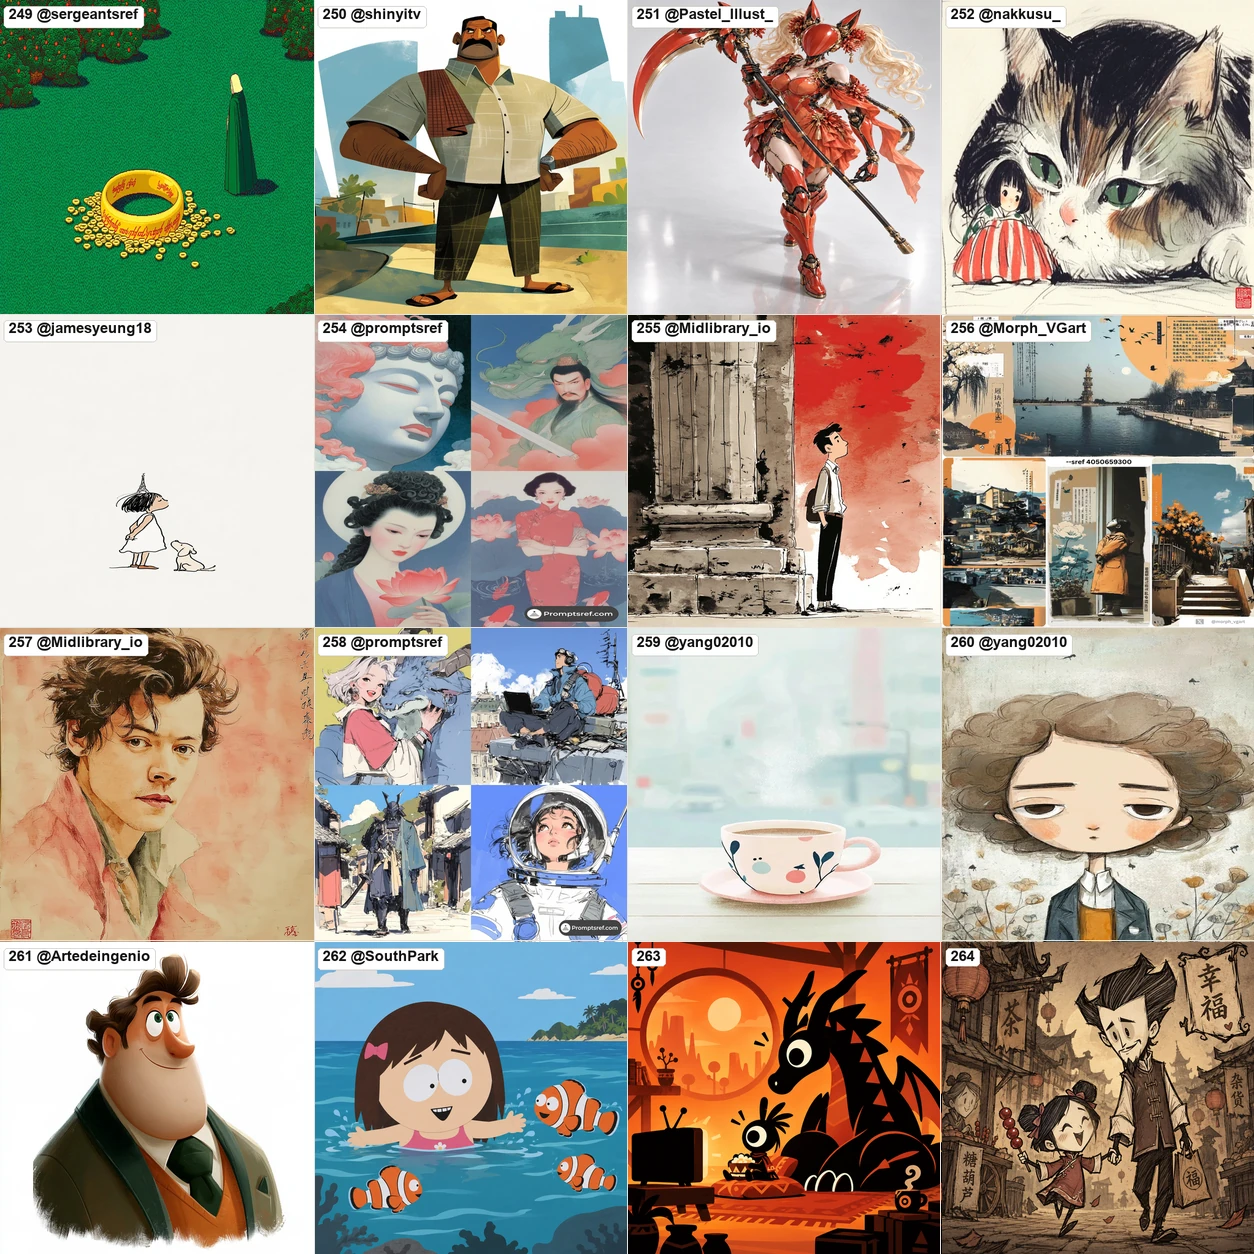
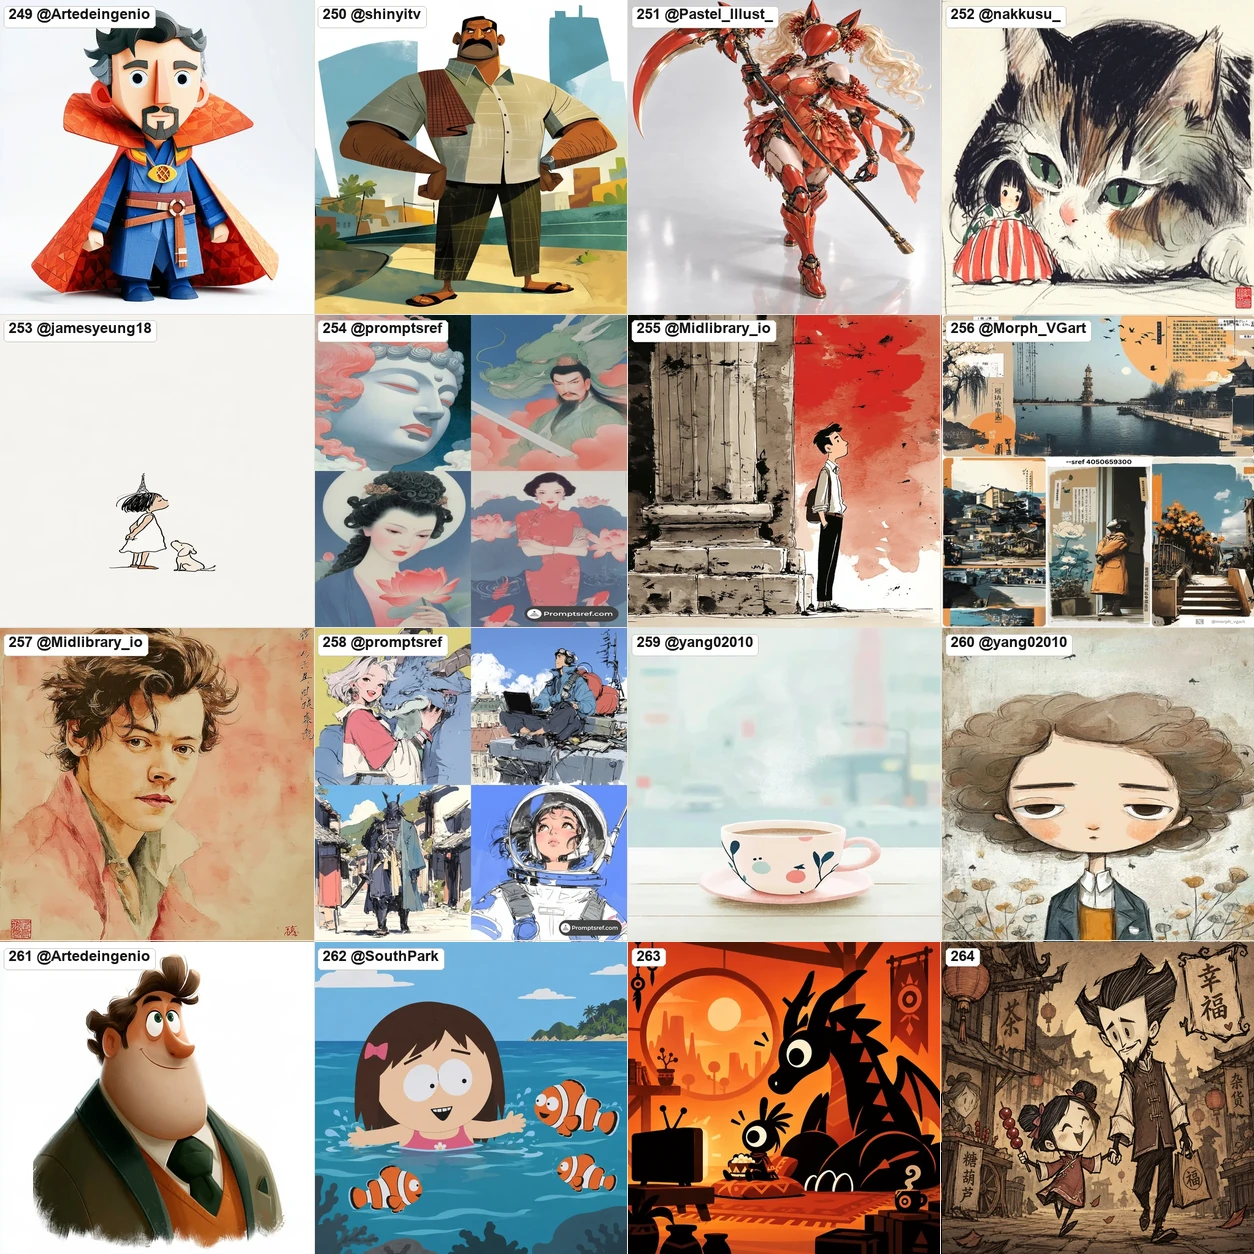
feat: replace style 249 with OscarAI tactile 3D papercraft cartoon
- Scrape tweet 2099802542771163152 by OscarAI (@Artedeingenio)
- Replace style 249 tile with badge '249 @Artedeingenio' and update 4-grid reference
- Re-render contact sheet images/H_249-264.webp
- Update styles_200_reorganized.md, styles.json, and gallery/index.html

Changed region(s): [[0.0, 0.0, 0.2488, 0.2488]]

diff --git a/skills/handdraw-style-prompter/gallery/index.html b/skills/handdraw-style-prompter/gallery/index.html
@@ -270,7 +270,7 @@ body{margin:0;background:#f7f5f0;color:#24211e;font:16px/1.5 system-ui,"Microsof
 <article class="style" data-number="246" data-group="H" data-image-src="../../../images/individual/201-400/246.webp"><b>#246</b> <span>Vintage 70s European Comic Animation Cel</span><small>OscarAI</small><p>70年代欧洲传统手绘手作动画风、质朴粗糙的手绘石墙背景、夸张滑稽的红发大胡子卫兵与尖帽侍从、古典讽刺动画与阿斯特里克斯式的幽默神态。</p></article>
 <article class="style" data-number="247" data-group="H" data-image-src="../../../images/individual/201-400/247.webp"><b>#247</b> <span>Modern Cinematic 2D Character Animation</span><small>OscarAI</small><p>现代电影级2D动画角色插画风、灵动深邃的大眼睛与微卷盘发墨镜、细腻柔和的室内环境光影与利落干净的动画清线造型。</p></article>
 <article class="style" data-number="248" data-group="H" data-image-src="../../../images/individual/201-400/248.webp"><b>#248</b> <span>Guochao Fantasy Architectural Illustration</span><small>歸藏(guizang.ai)</small><p>唯美国风奇幻建筑插画风、粉紫祥云与巨大明月、青瓦朱墙重檐宫殿楼阁与山石古松、扁平清丽的东方意境与梦幻国潮配色。</p></article>
-<article class="style" data-number="249" data-group="H" data-image-src="../../../images/individual/201-400/249.webp"><b>#249</b> <span>Retro Pointillist Pixel Grassland Fantasy</span><small>Sgt Sref</small><p>复古点彩微像素奇幻插画风、密性质感草地针织颗粒纹理、至尊金戒与金色钱币散落、绿斗篷隐者背影、莫比斯式的极简神秘寓言感。</p></article>
+<article class="style" data-number="249" data-group="H" data-image-src="../../../images/individual/201-400/249.webp"><b>#249</b> <span>Tactile Papercraft &amp; Fabric 3D Cartoon</span><small>OscarAI</small><p>手工纸艺与布纹质感3D卡通风、微型手工收藏品玩偶感、定格动画与潮玩艺术玩具设计、夸张生动五官与趣味身体比例、纯净白底、真实微距立体柔光光影。</p></article>
 <article class="style" data-number="250" data-group="H" data-image-src="../../../images/individual/201-400/250.webp"><b>#250</b> <span>Stylized Cinematic Action-Comedy Character</span><small>Shinyi</small><p>风格化大块面剪影动画插画风、夸张强壮的胡子大叔与市井风情、干练几何块面平涂与微颗粒光影、充满动势与幽默张力的街头角色原画。</p></article>
 <article class="style" data-number="251" data-group="H" data-image-src="../../../images/individual/201-400/251.webp"><b>#251</b> <span>Glossy Mecha Cyber Flower Doll</span><small>城野ぱすてる</small><p>高光亮面机甲机娘潮玩风、鲜艳大红与金边机甲涂装、机械巨镰与彼岸花发饰造型、极致精细的机械关节与陶瓷般高光质感。</p></article>
 <article class="style" data-number="252" data-group="H" data-image-src="../../../images/individual/201-400/252.webp"><b>#252</b> <span>Soft Crayon &amp; Sumi-e Cat Storybook</span><small>なっくす</small><p>温润蜡笔与水墨和风绘本风、质朴手绘炭笔蜡笔颗粒肌理、巨型猫咪的翡翠绿眼与细腻毛流、微型人偶与红色印章、充满童趣温暖的日式日常绘本。</p></article>

diff --git a/styles_200_reorganized.md b/styles_200_reorganized.md
@@ -504,7 +504,7 @@
 | 246 · OscarAI | Vintage 70s European Comic Animation Cel | 70年代欧洲传统手绘手作动画风、质朴粗糙的手绘石墙背景、夸张滑稽的红发大胡子卫兵与尖帽侍从、古典讽刺动画与阿斯特里克斯式的幽默神态。 |
 | 247 · OscarAI | Modern Cinematic 2D Character Animation | 现代电影级2D动画角色插画风、灵动深邃的大眼睛与微卷盘发墨镜、细腻柔和的室内环境光影与利落干净的动画清线造型。 |
 | 248 · 歸藏(guizang.ai) | Guochao Fantasy Architectural Illustration | 唯美国风奇幻建筑插画风、粉紫祥云与巨大明月、青瓦朱墙重檐宫殿楼阁与山石古松、扁平清丽的东方意境与梦幻国潮配色。 |
-| 249 · Sgt Sref | Retro Pointillist Pixel Grassland Fantasy | 复古点彩微像素奇幻插画风、密性质感草地针织颗粒纹理、至尊金戒与金色钱币散落、绿斗篷隐者背影、莫比斯式的极简神秘寓言感。 |
+| 249 · OscarAI | Tactile Papercraft & Fabric 3D Cartoon | 手工纸艺与布纹质感3D卡通风、微型手工收藏品玩偶感、定格动画与潮玩艺术玩具设计、夸张生动五官与趣味身体比例、纯净白底、真实微距立体柔光光影。 |
 | 250 · Shinyi | Stylized Cinematic Action-Comedy Character | 风格化大块面剪影动画插画风、夸张强壮的胡子大叔与市井风情、干练几何块面平涂与微颗粒光影、充满动势与幽默张力的街头角色原画。 |
 | 251 · 城野ぱすてる | Glossy Mecha Cyber Flower Doll | 高光亮面机甲机娘潮玩风、鲜艳大红与金边机甲涂装、机械巨镰与彼岸花发饰造型、极致精细的机械关节与陶瓷般高光质感。 |
 | 252 · なっくす | Soft Crayon & Sumi-e Cat Storybook | 温润蜡笔与水墨和风绘本风、质朴手绘炭笔蜡笔颗粒肌理、巨型猫咪的翡翠绿眼与细腻毛流、微型人偶与红色印章、充满童趣温暖的日式日常绘本。 |
